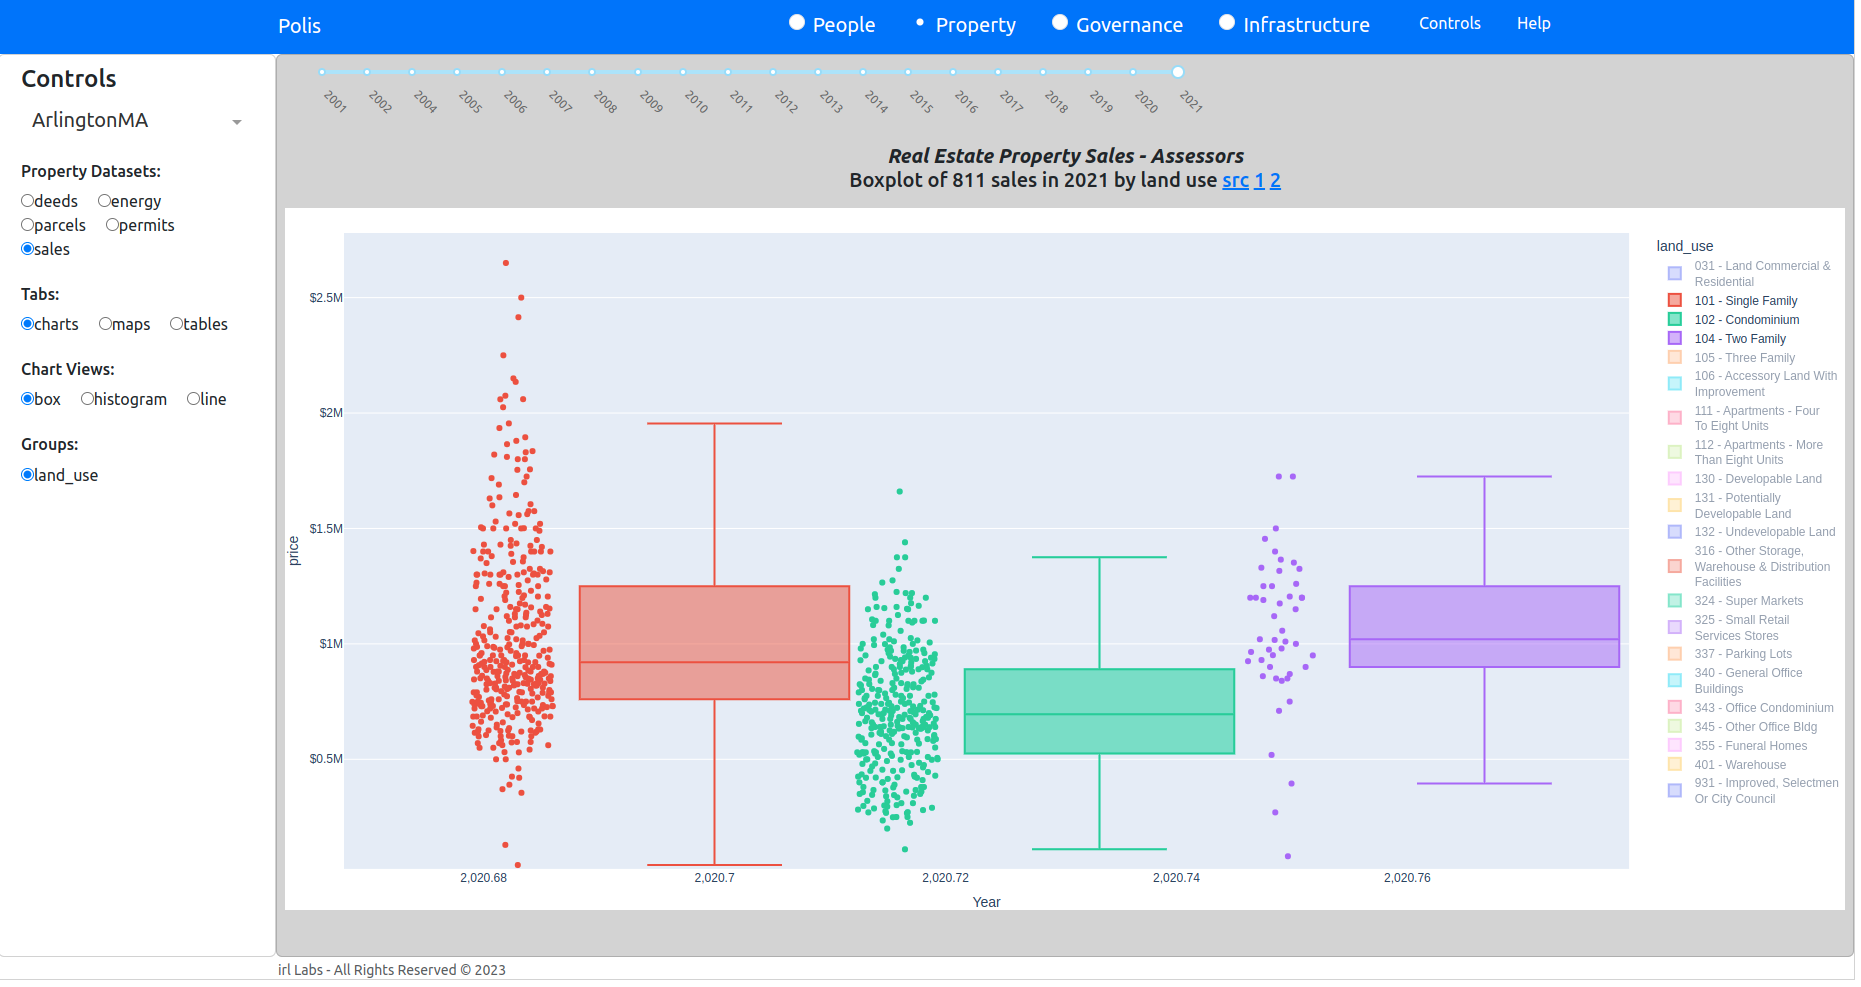
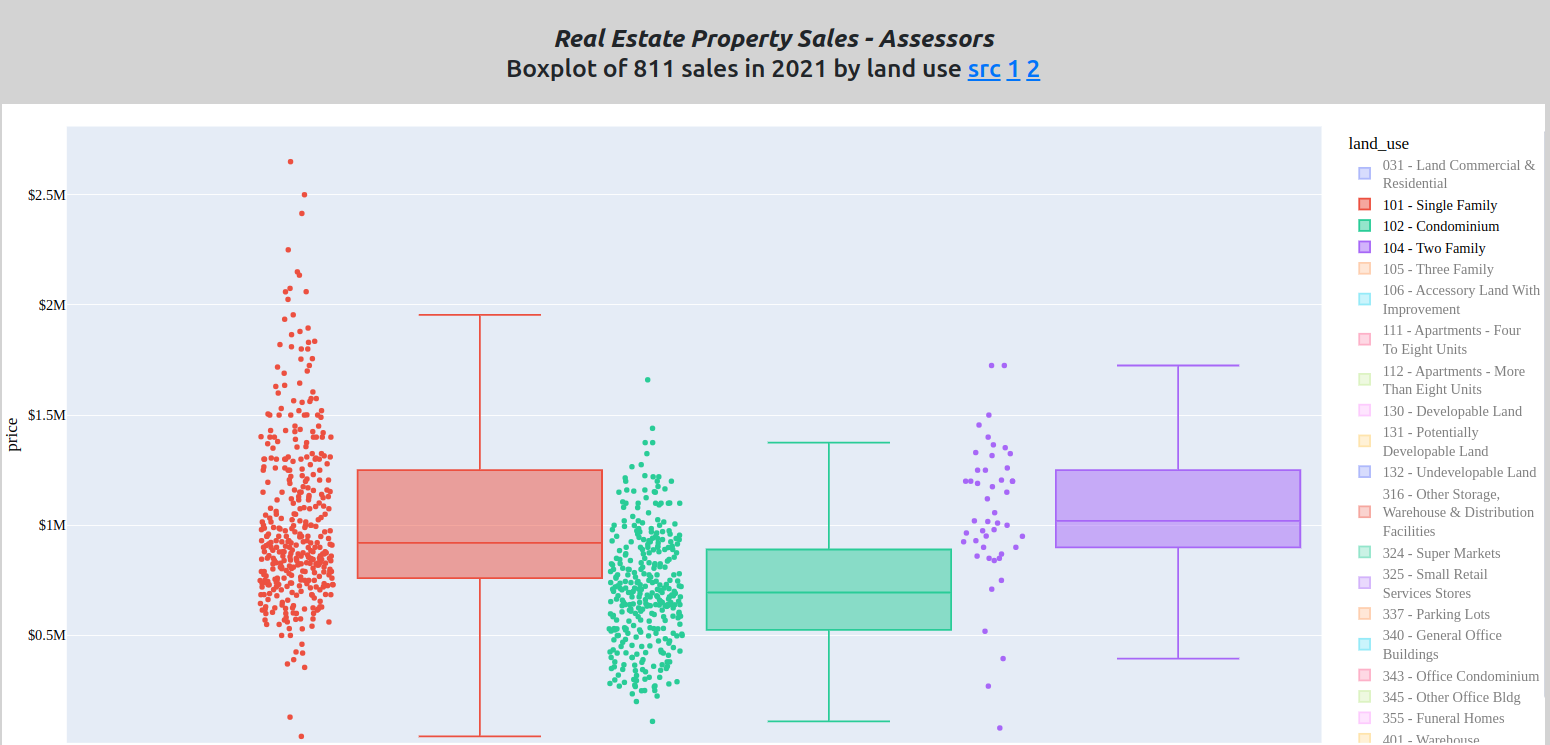
chart images style updates

diff --git a/app/charts.py b/app/charts.py
@@ -21,7 +21,13 @@ def boxplot ( df : pd . DataFrame , params : dict  ) -> px . box :
         yaxis_title=params['y'],
         legend_title=params["color"],
         autosize  =  True,
-        margin    = {"r":20,"t":25,"l":0,"b":0}
+        margin    = {"r":20,"t":25,"l":0,"b":0},
+        font=dict(
+            #family="Courier New, monospace",
+            family="Roboto",
+            size=16,  # Set the font size here
+            color="Black"
+        )
     )
 
     if 'traces_visible' in params:
@@ -105,7 +111,7 @@ def line_chart (
         markers=True,
         category_orders  =  {
             params['color']: list(df[params['color']].sort_values().unique())
-        },
+        }
     )
 
     ##grey out all traces except params traces_visible
@@ -119,7 +125,13 @@ def line_chart (
 
     ## provide room at top of graph-display for dash figure toolbar
     fig.update_layout(  autosize  =  True,
-                        margin    = {"r":20,"t":25,"l":0,"b":0}
+                        margin    = {"r":20,"t":25,"l":0,"b":0},
+                        font=dict(
+                            #family="Courier New, monospace",
+                            family="Roboto",
+                            size=16,  # Set the font size here
+                            color="Black"
+                        )
     )
 
     ##wrap trace names for graph-display size consistency
@@ -128,7 +140,18 @@ def line_chart (
             name = '<br>'.join(textwrap.wrap(trace.name, width=25))
         )
     )
-        
+    
+    fig.update_traces(
+        line=dict(width=3),
+        marker=dict(
+            size=12,
+            line=dict(
+                width=2,
+                color='DarkSlateGrey')
+        )
+        #selector=dict(mode='markers')
+    )
+    
     return fig
 
 
@@ -222,7 +245,13 @@ def histogram ( df : pd . DataFrame , params : dict  ) -> px . histogram :
 
     fig.update_layout (
         autosize  =  True,
-        margin    = {"r":20,"t":25,"l":0,"b":0}
+        margin    = {"r":20,"t":25,"l":0,"b":0},
+        font=dict(
+            #family="Courier New, monospace",
+            family="Roboto",
+            size=16,  # Set the font size here
+            color="Black"
+        )
     )
     
     fig . for_each_trace (
@@ -257,16 +286,37 @@ def scatter_chart ( x : pd . DataFrame , y : pd . DataFrame,
     y1 = y[y.municipality==municipality]['value'].values
     
     ##need to add customdata to star marker for timeseries to trigger on hoverData
+    
+    #fig.update_layout(showlegend=False,height=600)
+    fig.update_traces(
+        line=dict(width=3),
+        marker=dict(
+            size=12,
+            line=dict(
+                width=2,
+                color='DarkSlateGrey')
+        )
+    )
+
     fig.add_trace(go.Scatter(x=x1, y=y1, mode = 'markers',
                              marker_symbol = 'star',
-                             marker_size = 15))
-    fig.update_layout(showlegend=False)
+                             marker_size = 20))
     
     fig.update_xaxes(title=xaxis_column_name, type='linear' if xaxis_type == 'Linear' else 'log')
     
     fig.update_yaxes(title=yaxis_column_name, type='linear' if yaxis_type == 'Linear' else 'log')
     
-    fig.update_layout(margin={'l': 40, 'b': 40, 't': 10, 'r': 0}, hovermode='closest')
+    fig.update_layout(
+        showlegend=False,
+        height=600,
+        margin    = {"r":20,"t":25,"l":0,"b":0},
+        hovermode='closest',
+        font=dict(
+            family="Roboto",
+            size=16,  # Set the font size here
+            color="Black"
+        )
+    )
     
     return fig
 
@@ -278,6 +328,16 @@ def create_time_series(dff, axis_type, title):
     fig = px.scatter(dff, x='year', y='value')
     
     fig.update_traces(mode='lines+markers')
+
+    fig.update_traces(
+        line=dict(width=3),
+        marker=dict(
+            size=12,
+            line=dict(
+                width=2,
+                color='DarkSlateGrey')
+        )
+    )
     
     fig.update_xaxes(showgrid=False)
     
@@ -287,7 +347,11 @@ def create_time_series(dff, axis_type, title):
                        xref='paper', yref='paper', showarrow=False, align='left',
                        text=title)
     
-    fig.update_layout(height=225, margin={'l': 20, 'b': 30, 'r': 10, 't': 10})
+    fig.update_layout(
+        #height=225,
+        height=300,
+        margin={'l': 20, 'b': 30, 'r': 10, 't': 10}        
+    )
     
     return fig
 
